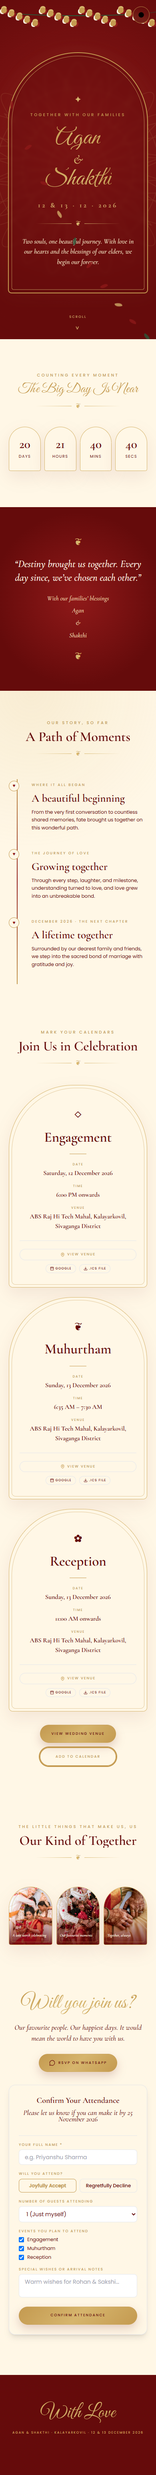
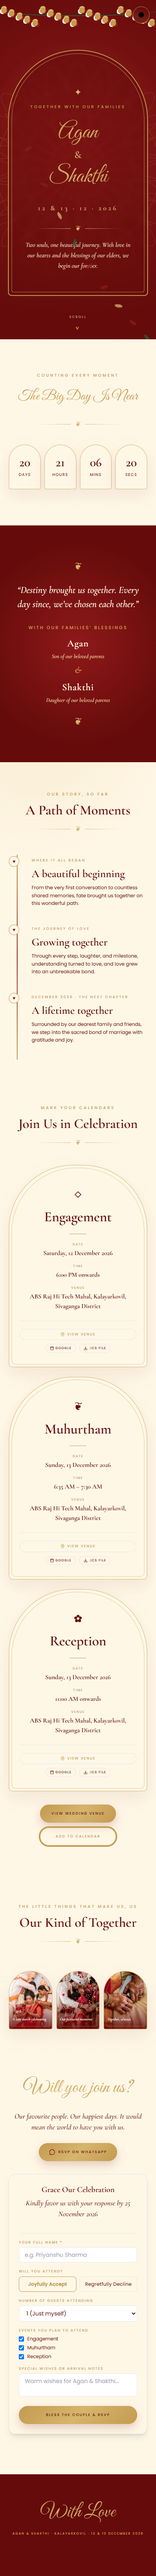
fix: resolve font collisions, add breathing room to script titles, and replace RSVP form heading with unique title

diff --git a/src/index.css b/src/index.css
@@ -68,9 +68,9 @@ body {
   color: transparent;
   -webkit-background-clip: text;
   background-clip: text;
-  margin: 10px 0 13px;
+  margin: 12px 0 16px;
   font-size: clamp(34px, 6vw, 48px);
-  line-height: 1;
+  line-height: 1.15;
 }
 
 :root[data-theme="dark"] .section-heading h2 {
@@ -90,6 +90,10 @@ body {
 .script-title {
   font-family: 'Great Vibes', cursive;
   font-weight: 400;
+  line-height: 1.35;
+  margin: 12px 0 20px;
+  padding: 6px 16px;
+  display: inline-block;
 }
 
 .eyebrow {
@@ -99,6 +103,7 @@ body {
   font-size: 10px;
   font-weight: 500;
   line-height: 1.6;
+  margin-bottom: 4px;
 }
 
 /* Divider */
@@ -107,8 +112,8 @@ body {
   color: var(--light-gold);
   justify-content: center;
   align-items: center;
-  gap: 10px;
-  margin: 0 auto;
+  gap: 12px;
+  margin: 8px auto 0;
   display: flex;
 }
 
@@ -411,8 +416,8 @@ body {
   flex-direction: column;
   justify-content: center;
   align-items: center;
-  min-height: 575px;
-  padding: 92px 25px 56px;
+  min-height: 590px;
+  padding: 80px 24px 52px;
   display: flex;
   text-align: center;
   border-radius: 230px 230px 7px 7px;
@@ -426,24 +431,25 @@ body {
 
 @media (min-width: 700px) {
   .hero-arch-inner {
-    min-height: 650px;
+    min-height: 660px;
+    padding: 95px 32px 58px;
   }
 }
 
 .hero-ornament {
   color: var(--light-gold);
-  margin-bottom: 16px;
+  margin-bottom: 14px;
   font-size: 20px;
 }
 
 .hero h1 {
   flex-direction: column;
   align-items: center;
-  margin: 21px 0 24px;
+  margin: 16px 0 22px;
   font-family: 'Great Vibes', cursive;
-  font-size: clamp(54px, 16vw, 82px);
+  font-size: clamp(52px, 14vw, 78px);
   font-weight: 400;
-  line-height: 0.92;
+  line-height: 1.18;
   display: flex;
 }
 
@@ -452,33 +458,39 @@ body {
   -webkit-text-fill-color: transparent;
   -webkit-background-clip: text;
   background-clip: text;
+  padding: 4px 14px;
+  display: inline-block;
 }
 
 .hero h1 em {
   color: var(--light-gold);
-  margin: 11px 0 5px;
+  margin: 6px 0 6px;
   font-family: 'Cormorant Garamond', serif;
-  font-size: 31px;
+  font-size: 26px;
+  font-style: normal;
   font-weight: 500;
+  line-height: 1;
 }
 
 .hero-date {
   color: var(--light-gold);
   letter-spacing: 0.28em;
-  margin-bottom: 22px;
+  margin-top: 8px;
+  margin-bottom: 20px;
   font-family: 'Cormorant Garamond', serif;
   font-size: 17px;
   font-weight: 600;
+  line-height: 1.3;
 }
 
 .hero-copy {
   color: #ebd9b8;
-  max-width: 315px;
-  margin-top: 20px;
+  max-width: 320px;
+  margin-top: 18px;
   font-family: 'Cormorant Garamond', serif;
-  font-size: 17px;
+  font-size: 16px;
   font-style: italic;
-  line-height: 1.5;
+  line-height: 1.6;
 }
 
 .scroll-hint {
@@ -639,46 +651,93 @@ body {
 /* Blessing Section */
 .blessing {
   background: radial-gradient(circle at center, #8f1919, #650b0b 72%), var(--deep-maroon);
-  min-height: 330px;
+  min-height: 360px;
   color: var(--light-gold);
   text-align: center;
   flex-direction: column;
   justify-content: center;
   align-items: center;
-  gap: 22px;
-  padding: 70px 24px;
+  gap: 26px;
+  padding: 85px 24px;
   display: flex;
+  position: relative;
 }
 
 .blessing b {
   font-size: 22px;
   font-weight: 400;
+  display: block;
+  color: var(--light-gold);
 }
 
 .blessing blockquote {
   color: #fff7e6;
   max-width: 680px;
   font-family: 'Cormorant Garamond', serif;
-  font-size: clamp(25px, 6vw, 37px);
+  font-size: clamp(24px, 5.5vw, 36px);
   font-style: italic;
   font-weight: 500;
-  line-height: 1.35;
+  line-height: 1.45;
   margin: 0;
+  padding: 0 12px;
 }
 
 .family-line {
   color: #ebd9b8;
   max-width: 620px;
-  font-family: 'Cormorant Garamond', serif;
-  font-size: 16px;
-  font-style: italic;
-  line-height: 1.6;
-  margin: 0;
+  margin: 6px 0 0;
+  text-align: center;
 }
 
-.family-line span {
-  margin-top: 5px;
+.family-header {
+  font-family: Poppins, sans-serif;
+  font-size: 11px;
+  letter-spacing: 0.28em;
+  text-transform: uppercase;
+  color: var(--light-gold);
+  margin: 0 0 14px;
+  font-weight: 400;
+}
+
+.family-couple {
+  display: flex;
+  flex-direction: column;
+  align-items: center;
+  justify-content: center;
+  gap: 8px;
+}
+
+@media (min-width: 640px) {
+  .family-couple {
+    flex-direction: row;
+    align-items: baseline;
+    gap: 16px;
+  }
+}
+
+.family-person strong {
+  font-family: 'Cormorant Garamond', serif;
+  font-size: 24px;
+  font-weight: 600;
+  color: #fff7e6;
+  letter-spacing: 0.04em;
   display: block;
+}
+
+.family-person small {
+  font-family: 'Cormorant Garamond', serif;
+  font-size: 14px;
+  color: #ebd9b8;
+  font-style: italic;
+  display: block;
+  margin-top: 3px;
+}
+
+.family-amp {
+  font-family: 'Cormorant Garamond', serif;
+  font-size: 22px;
+  color: var(--light-gold);
+  font-style: italic;
 }
 
 /* Timeline / Our Story */
@@ -1042,17 +1101,21 @@ body {
   color: transparent;
   -webkit-background-clip: text;
   background-clip: text;
-  font-size: clamp(50px, 11vw, 70px);
+  font-size: clamp(48px, 10vw, 68px);
   font-weight: 400;
-  margin: 0 0 10px;
+  line-height: 1.35;
+  margin: 0 0 14px;
+  padding: 6px 14px;
+  display: inline-block;
 }
 
 .rsvp p {
   color: var(--subtle);
-  margin: 8px 0 25px;
+  margin: 6px 0 26px;
   font-family: 'Cormorant Garamond', serif;
   font-size: 18px;
   font-style: italic;
+  line-height: 1.5;
 }
 
 /* Footer */
@@ -1069,13 +1132,16 @@ footer p {
   background-clip: text;
   font-family: 'Great Vibes', cursive;
   font-size: 48px;
+  line-height: 1.35;
+  padding: 4px 10px;
+  display: inline-block;
   margin: 0;
 }
 
 footer span {
   color: var(--light-gold);
   letter-spacing: 0.25em;
-  margin-top: 7px;
+  margin-top: 10px;
   font-size: 8px;
   line-height: 1.7;
   display: block;

diff --git a/src/components/sections/RsvpSection.tsx b/src/components/sections/RsvpSection.tsx
@@ -121,10 +121,10 @@ export const RsvpSection: React.FC = () => {
                   <button
                     type="button"
                     onClick={() => setAttending('yes')}
-                    className={`py-2 px-3 rounded-lg text-xs font-medium border text-center transition-all ${
+                    className={`py-2.5 px-3 rounded-lg text-xs tracking-wide border text-center transition-all cursor-pointer ${
                       attending === 'yes'
-                        ? 'border-gold bg-gold/15 text-gold font-semibold'
-                        : 'border-gold/30 bg-transparent text-subtle hover:border-gold/50'
+                        ? 'border-gold bg-gold/20 text-gold font-semibold shadow-sm'
+                        : 'border-gold/30 bg-transparent text-subtle hover:border-gold/60'
                     }`}
                   >
                     Joyfully Accept
@@ -132,10 +132,10 @@ export const RsvpSection: React.FC = () => {
                   <button
                     type="button"
                     onClick={() => setAttending('no')}
-                    className={`py-2 px-3 rounded-lg text-xs font-medium border text-center transition-all ${
+                    className={`py-2.5 px-3 rounded-lg text-xs tracking-wide border text-center transition-all cursor-pointer ${
                       attending === 'no'
-                        ? 'border-gold bg-gold/15 text-gold font-semibold'
-                        : 'border-gold/30 bg-transparent text-subtle hover:border-gold/50'
+                        ? 'border-gold bg-gold/20 text-gold font-semibold shadow-sm'
+                        : 'border-gold/30 bg-transparent text-subtle hover:border-gold/60'
                     }`}
                   >
                     Regretfully Decline
@@ -194,7 +194,7 @@ export const RsvpSection: React.FC = () => {
                   rows={2}
                   value={notes}
                   onChange={(e) => setNotes(e.target.value)}
-                  placeholder="Warm wishes for Rohan & Sakshi..."
+                  placeholder={`Warm wishes for ${hero.groomFirstName} & ${hero.brideFirstName}...`}
                   className="w-full px-3.5 py-2 text-sm rounded-lg bg-cream/50 border border-gold/40 text-ink placeholder:text-subtle/50 focus:outline-none focus:border-gold focus:ring-1 focus:ring-gold resize-none"
                 />
               </div>
@@ -204,7 +204,7 @@ export const RsvpSection: React.FC = () => {
                 type="submit"
                 className="w-full gold-button mt-2 text-[9px] py-2.5 font-medium cursor-pointer"
               >
-                Confirm Attendance
+                {rsvp.submitButtonText || 'Bless The Couple & RSVP'}
               </button>
             </form>
           )}

diff --git a/src/components/sections/BlessingsSection.tsx b/src/components/sections/BlessingsSection.tsx
@@ -16,12 +16,20 @@ export const BlessingsSection: React.FC = () => {
       </Reveal>
 
       <Reveal delay={0.2}>
-        <p className="family-line">
-          {blessing.header}
-          <span>{blessing.groomFullName}</span>
-          <span>&amp;</span>
-          <span>{blessing.brideFullName}</span>
-        </p>
+        <div className="family-line">
+          <p className="family-header">{blessing.header}</p>
+          <div className="family-couple">
+            <div className="family-person">
+              <strong>{blessing.groomFullName}</strong>
+              {blessing.groomParents && <small>{blessing.groomParents}</small>}
+            </div>
+            <span className="family-amp" aria-hidden="true">&amp;</span>
+            <div className="family-person">
+              <strong>{blessing.brideFullName}</strong>
+              {blessing.brideParents && <small>{blessing.brideParents}</small>}
+            </div>
+          </div>
+        </div>
       </Reveal>
 
       <Reveal direction="up" delay={0.3}>

diff --git a/src/content/invitation.ts b/src/content/invitation.ts
@@ -95,6 +95,7 @@ export interface InvitationContent {
     whatsAppButtonText: string;
     formTitle: string;
     formSubtitle: string;
+    submitButtonText: string;
   };
   footer: {
     signOff: string;
@@ -238,8 +239,9 @@ export const invitationContent: InvitationContent = {
     whatsAppNumber: "919679545488", // Update with Agan / Shakthi's WhatsApp number when ready
     whatsAppMessageTemplate: "Hi Agan & Shakthi! I'd like to RSVP for your wedding.\nName: \nNumber of guests: \nEvents I can attend: \nArrival plans: ",
     whatsAppButtonText: "RSVP on WhatsApp",
-    formTitle: "Confirm Your Attendance",
-    formSubtitle: "Please let us know if you can make it by 25 November 2026",
+    formTitle: "Grace Our Celebration",
+    formSubtitle: "Kindly favor us with your response by 25 November 2026",
+    submitButtonText: "Bless The Couple & RSVP",
   },
   footer: {
     signOff: "With Love",
